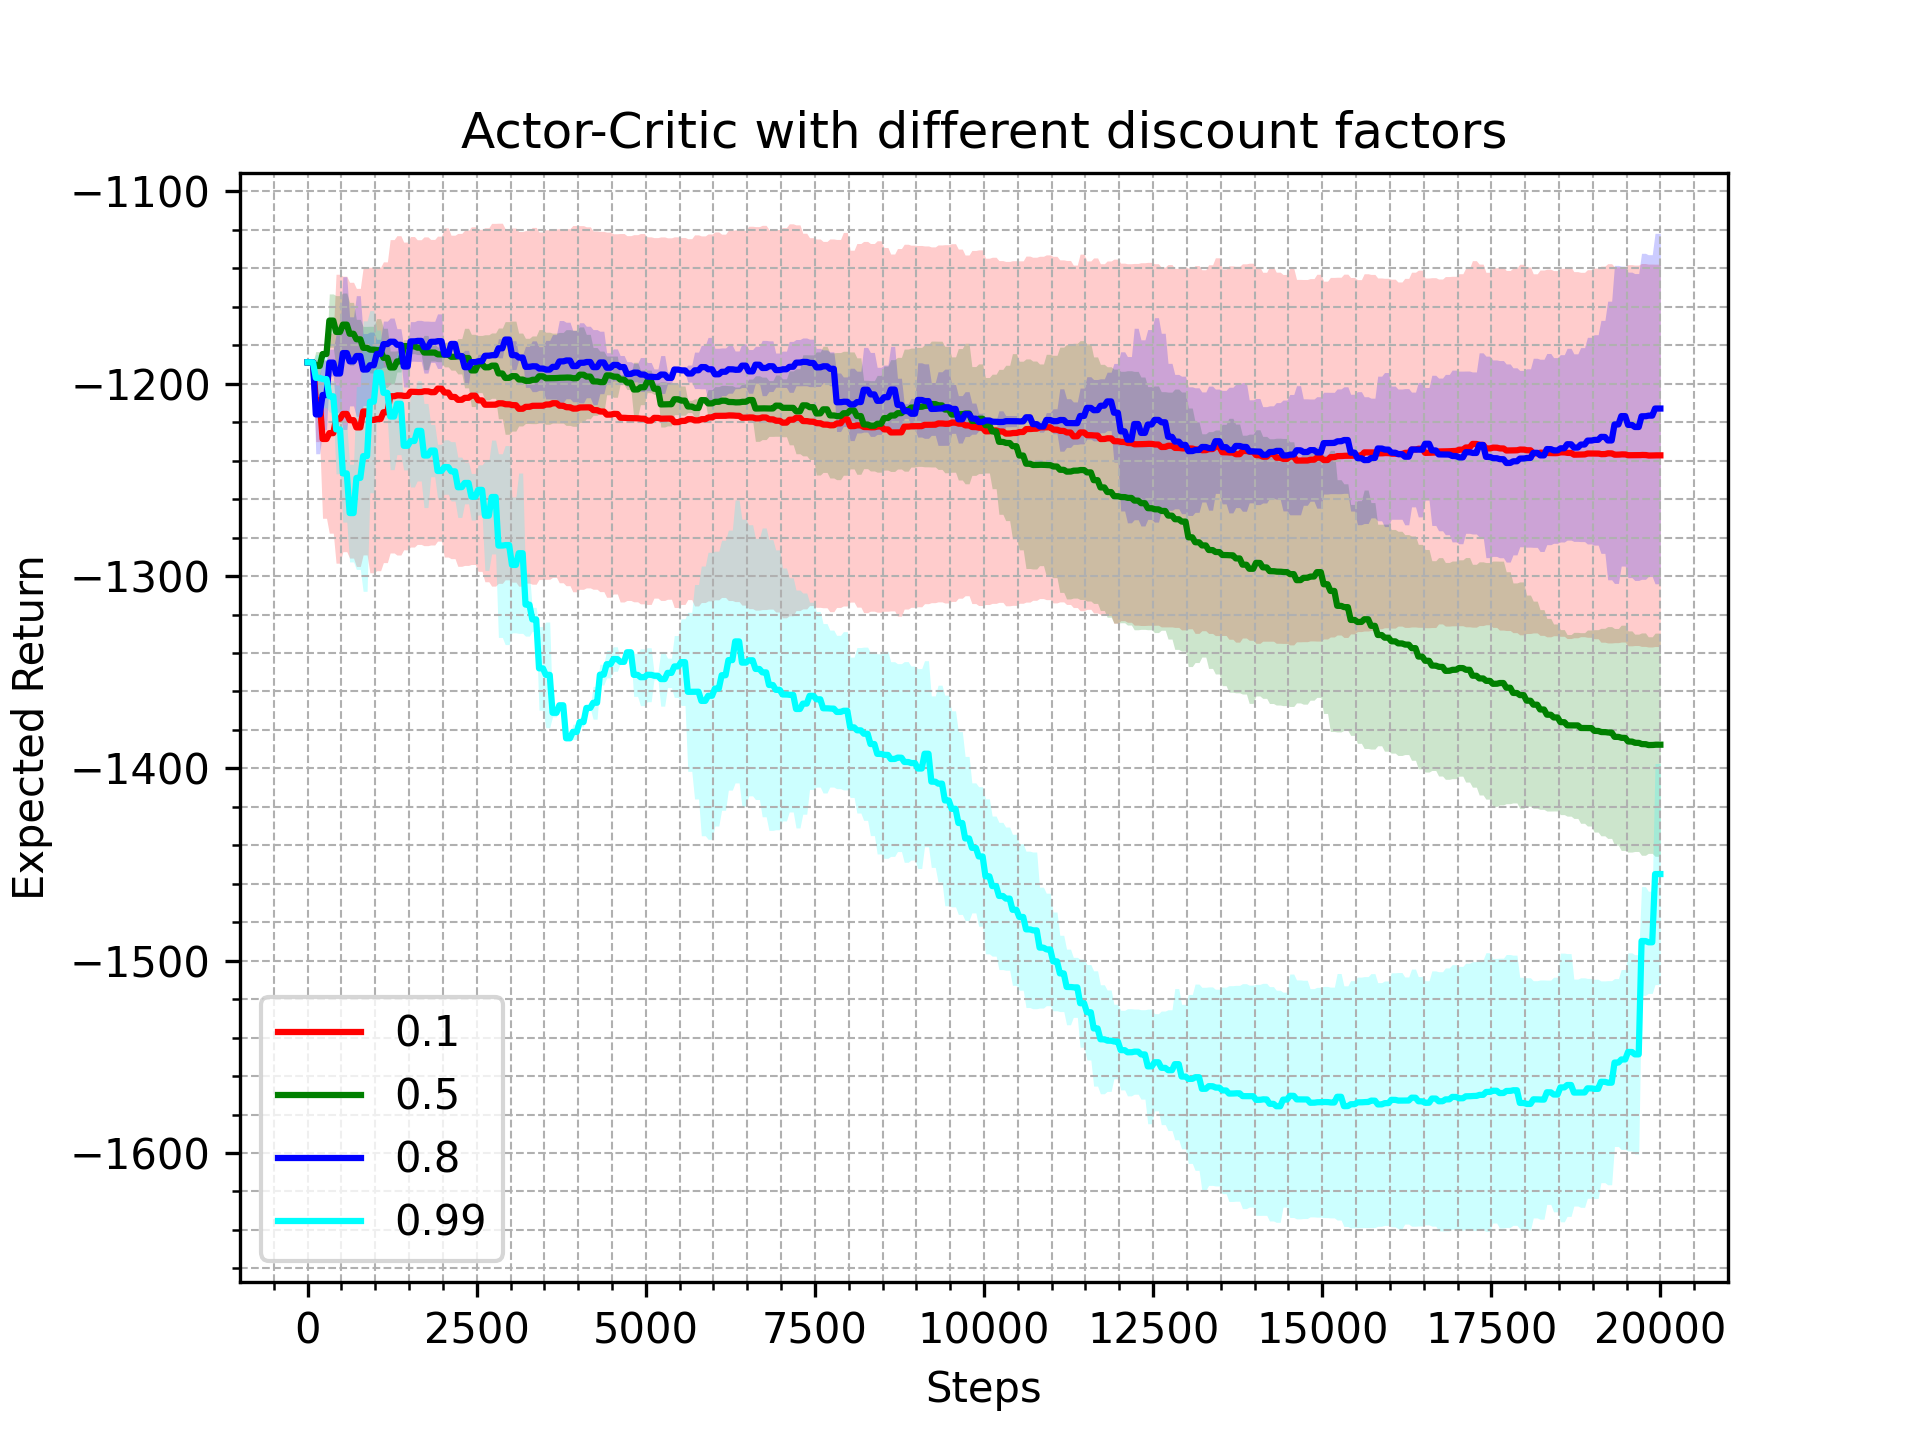
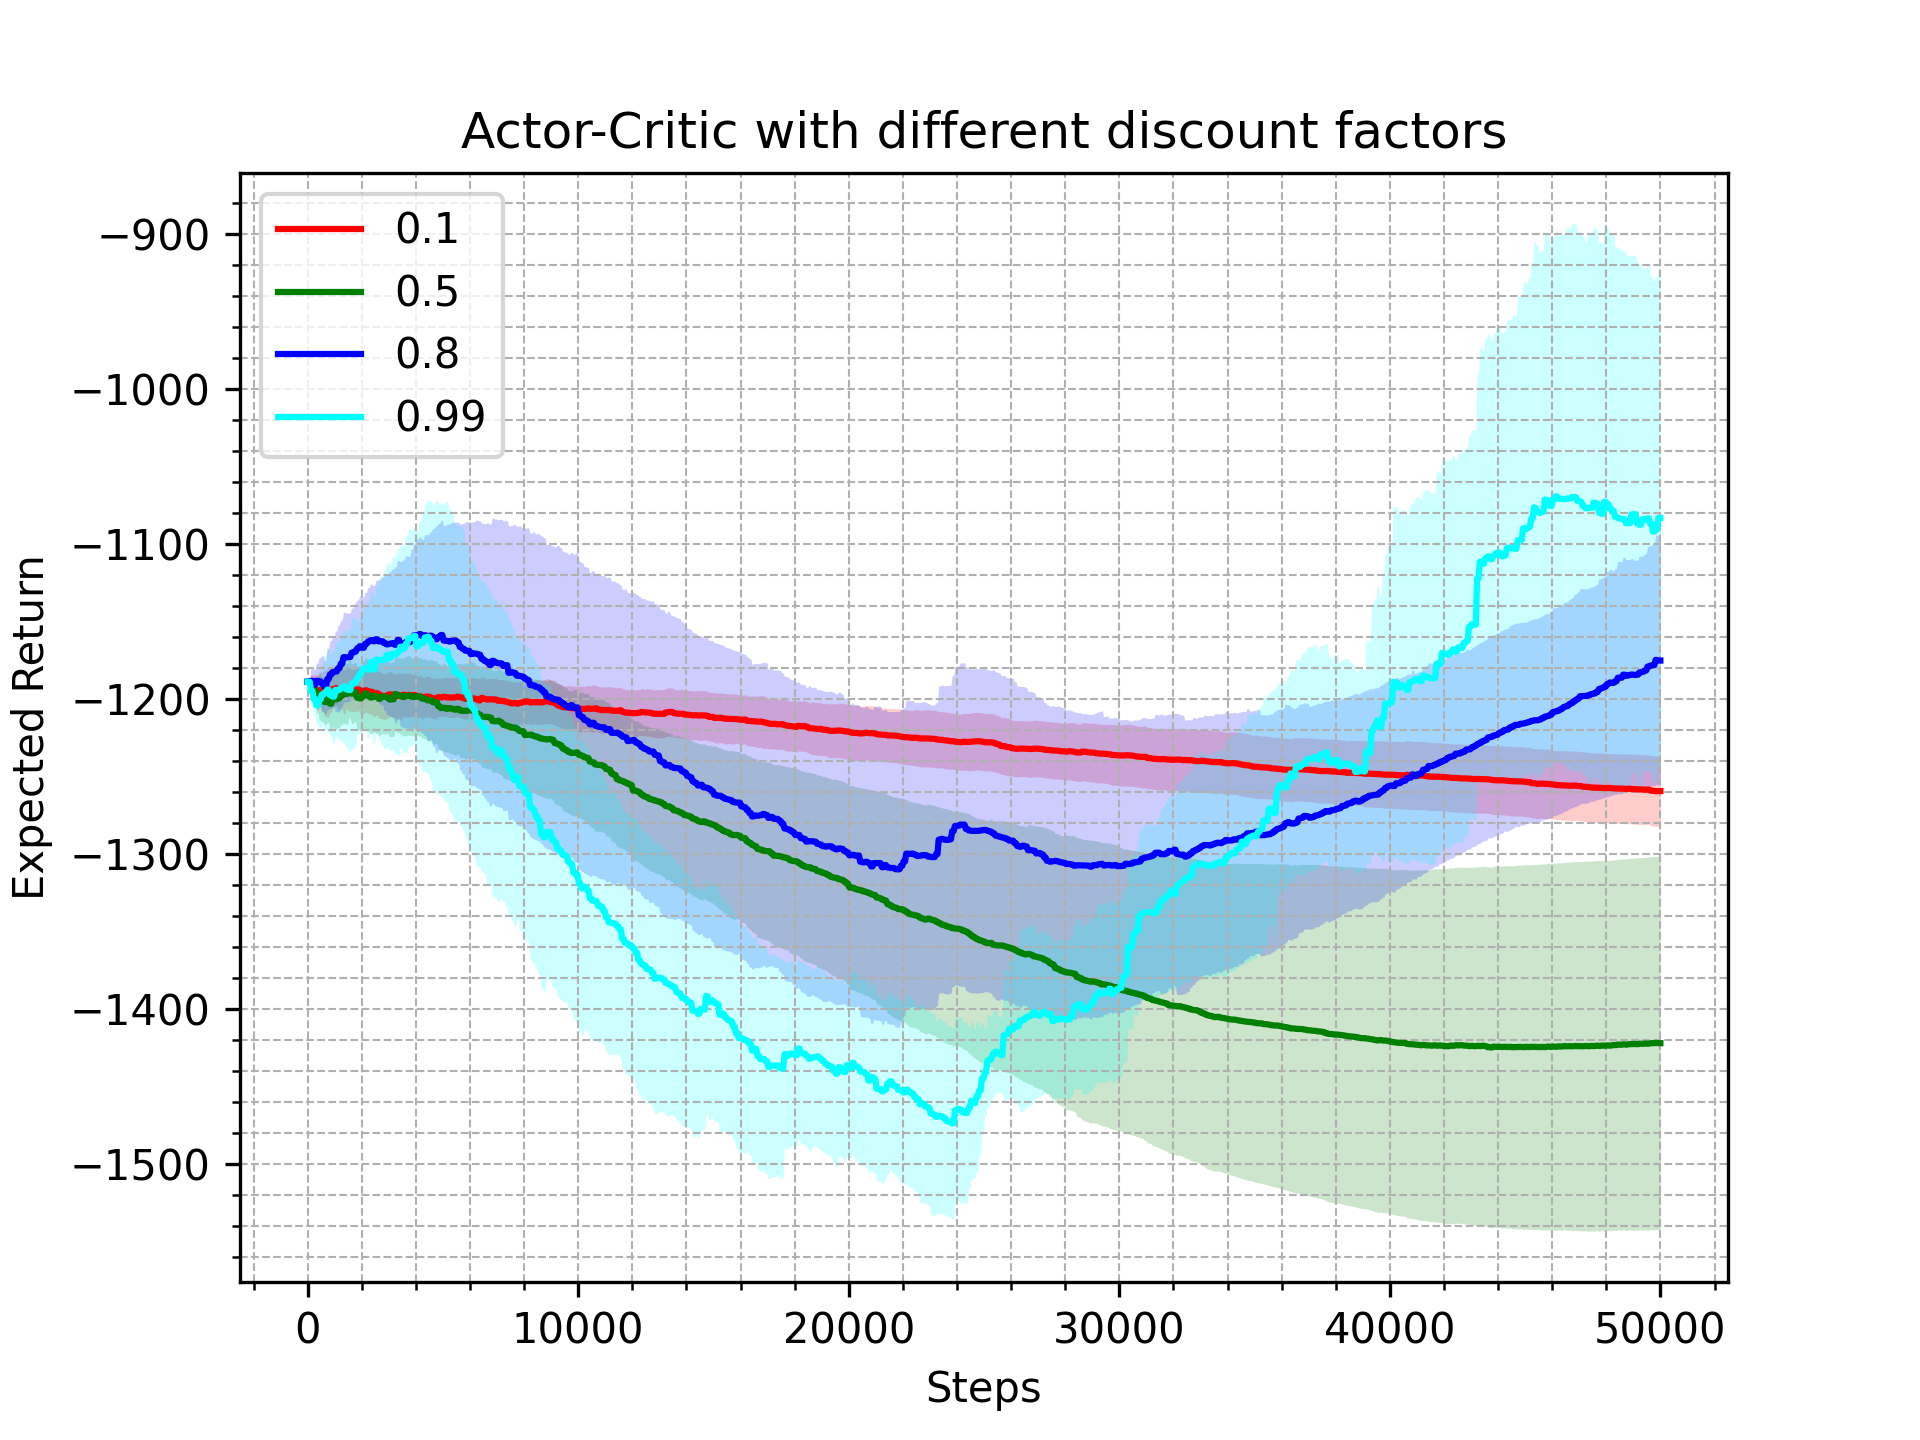
gaussian action selection

diff --git a/experiments/actor_critic_pendulum.py b/experiments/actor_critic_pendulum.py
@@ -11,7 +11,7 @@ def cantor_pairing(x, y):
 def rbf_features(x: np.array, c: np.array, s: np.array) -> np.array:
     return np.exp(-(((x[:, None] - c[None]) / s[None])**2).sum(-1) / 2.0)
 
-def expected_return(env, weights, gamma, episodes=50):
+def expected_return(env, weights, sigma, episodes=50):
     G = np.zeros(episodes)
     for e in range(episodes):
         s, _ = env.reset(seed=e)
@@ -19,7 +19,7 @@ def expected_return(env, weights, gamma, episodes=50):
         t = 0
         while not done:
             phi = get_phi(s)
-            a = np.dot(phi, weights)
+            a = np.dot(phi, weights, sigma)
             a_clip = np.clip(a, env.action_space.low, env.action_space.high)
             s_next, r, terminated, truncated, _ = env.step(a_clip)
             done = terminated or truncated
@@ -74,7 +74,7 @@ def actor_critic(gamma, seed):
             exp_return_history[tot_steps-1] = exp_return
 
             if tot_steps % eval_steps == 0:
-                exp_return = expected_return(env_eval, actor_weights, gamma, episodes_eval)
+                exp_return = expected_return(env_eval, actor_weights, sigma, episodes_eval)
             
             sigma = max(sigma - 1 / max_steps, 0.1)
 
@@ -137,9 +137,9 @@ phi_dummy = get_phi(env.reset()[0])  # to get the number of features
 gamma_values = [0.1, 0.5, 0.8, 0.99]
 alpha_actor = 0.001
 alpha_critic = 0.01
-episodes_eval = 50
-eval_steps = 100
-max_steps = 50000
+episodes_eval = 10
+eval_steps = 500
+max_steps = 1000000
 n_seeds = 10
 results_exp_ret = np.zeros((
     len(gamma_values),
